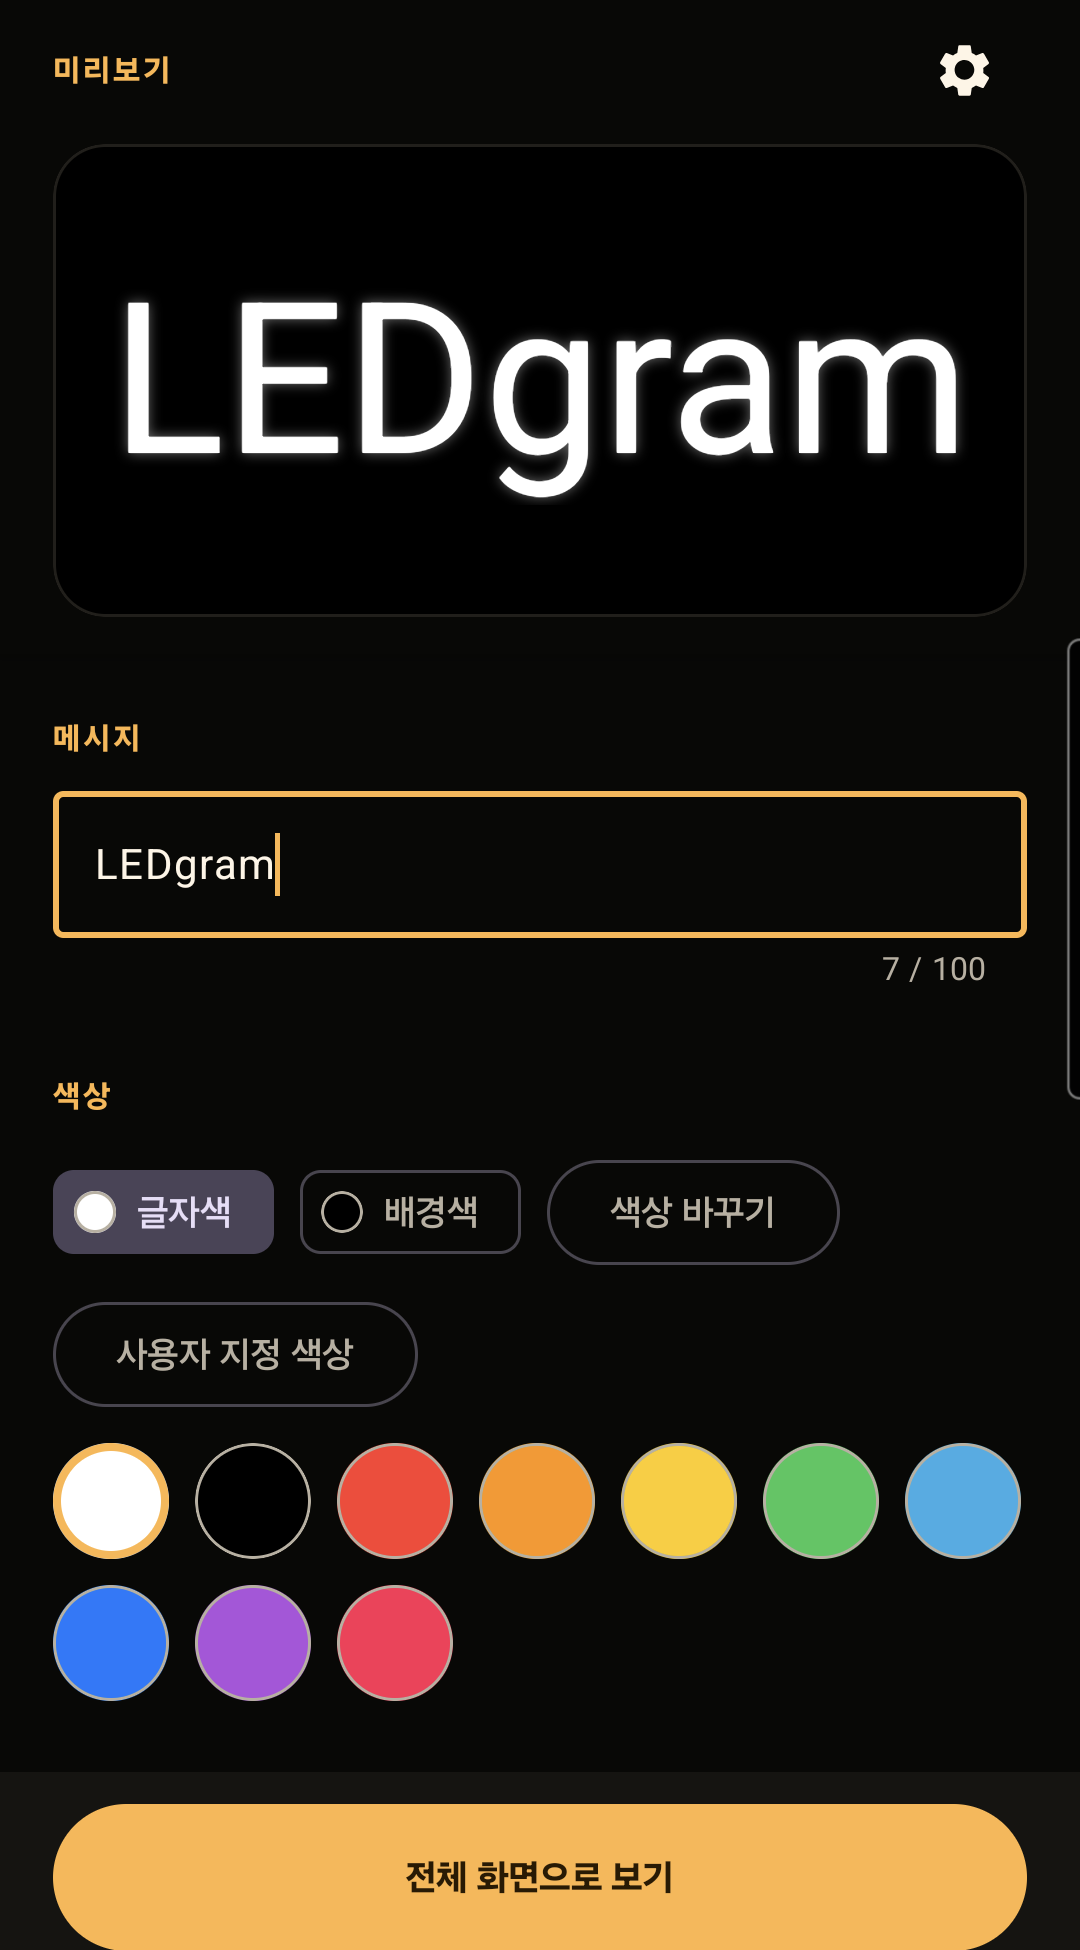
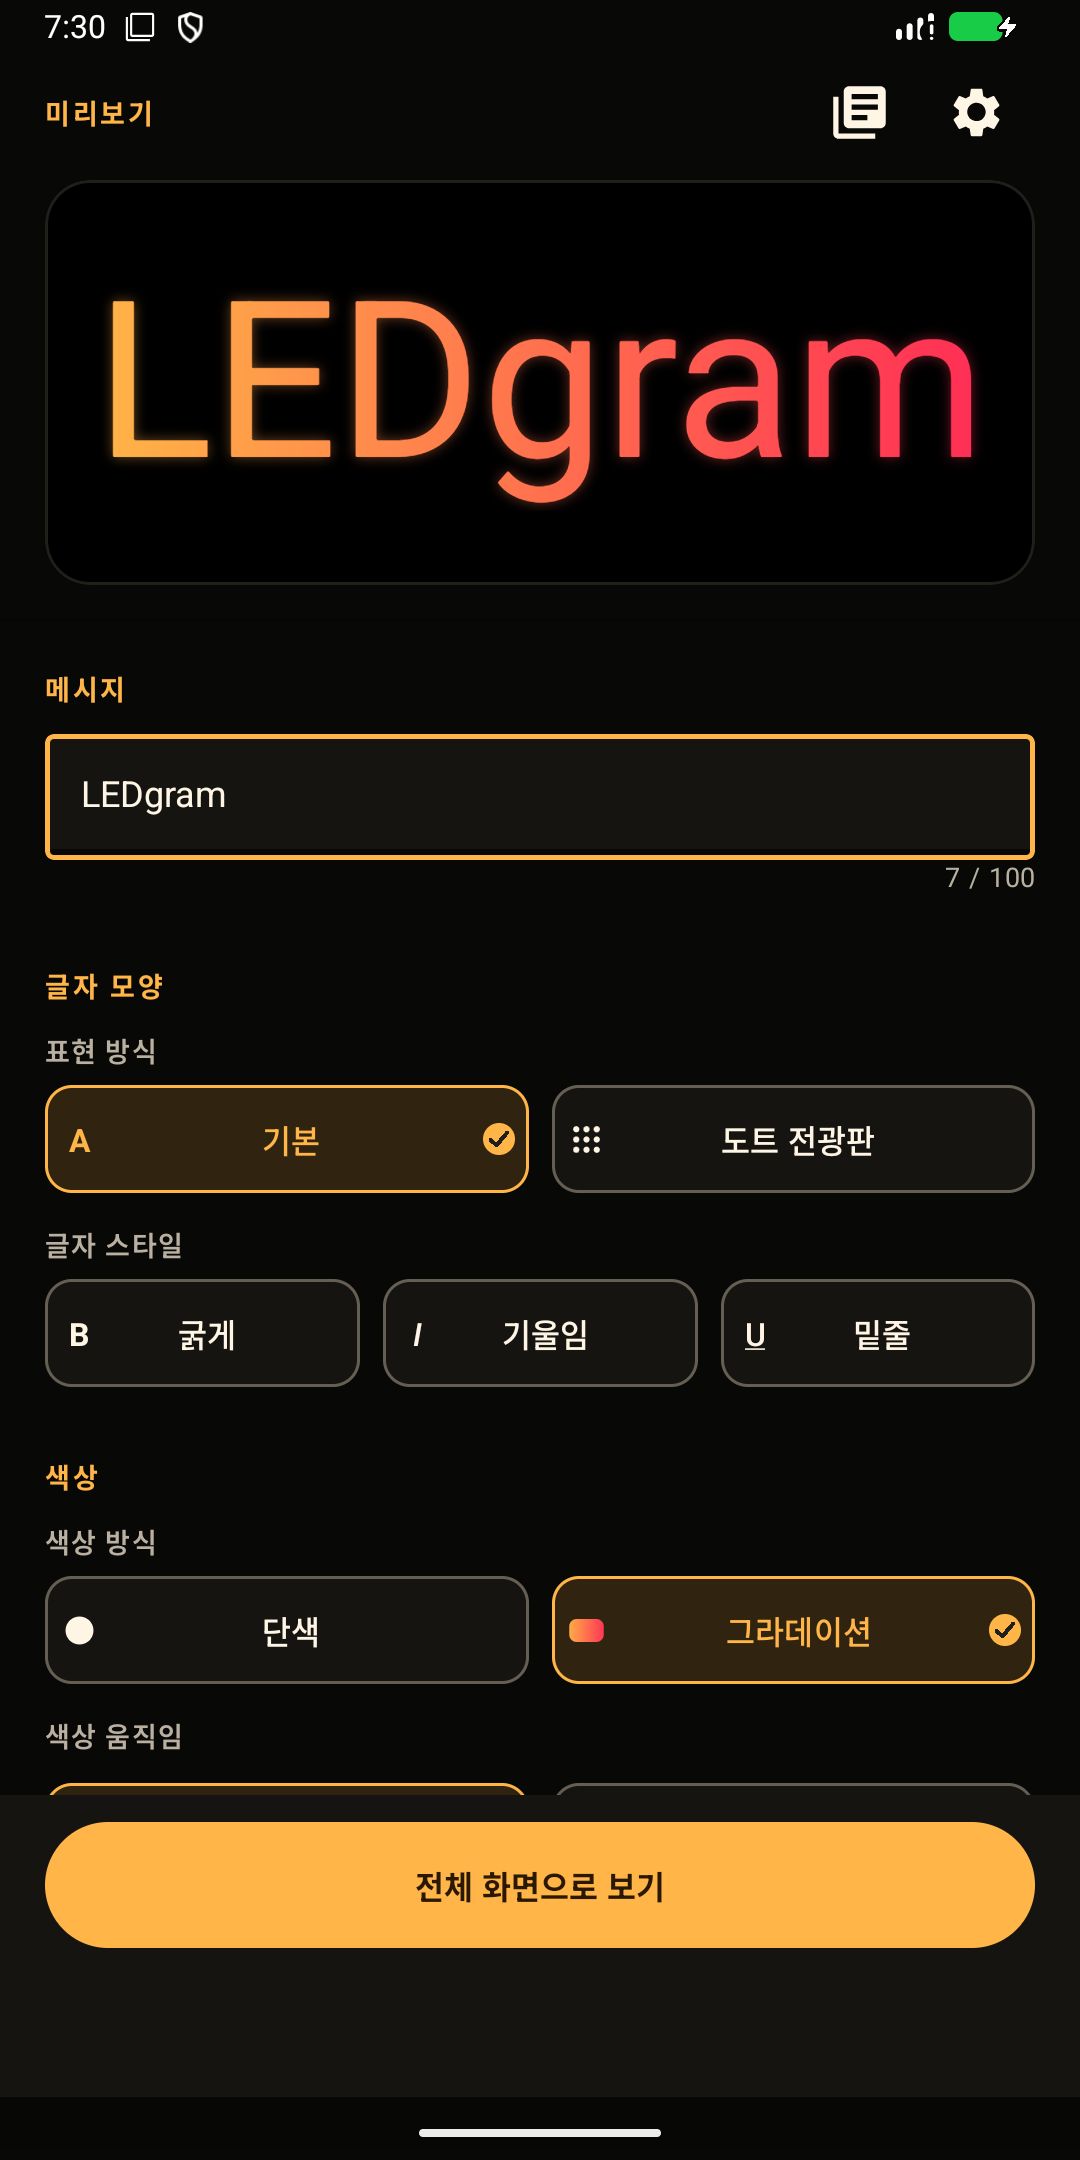
chore: sync public files from ledgram@51493d992a85

diff --git a/README.ko.md b/README.ko.md
@@ -6,7 +6,8 @@ LEDgram은 Android 스마트폰, 태블릿, 폴더블 기기를 밝고 자유롭
 
 ## 주요 기능
 
-- 단색 글자·배경 색상과 6가지 고정 및 4가지 애니메이션 글자 그라데이션, 굵게, 기울임, 밑줄 설정
+- 단색 글자·배경 색상과 6가지 고정 및 4가지 애니메이션 글자 그라데이션, 독립적인 그라데이션 속도
+- 굵게, 기울임, 밑줄 글자 스타일
 - Text + Glow 및 Dot Matrix 표현 방식
 - 고정 문구 또는 양방향 전광판 이동
 - Blink, Pulse, Fade 효과와 독립적인 이동·효과 속도 조절
@@ -15,7 +16,8 @@ LEDgram은 Android 스마트폰, 태블릿, 폴더블 기기를 밝고 자유롭
 - 앱을 다시 실행해도 유지되는 Editor 설정
 - 저장된 미리보기와 상세 정보, 생성, 불러오기, 이름 변경, 명시적 덮어쓰기, 삭제, 불러오기 실행 취소 및 편집 가능한 초기 Default를 지원하는 로컬 프리셋 라이브러리
 - 새로 설치하면 Brand Amber에서 Pink로 이어지는 고정 가로 그라데이션으로 시작하며, 기존에 저장된 Editor 설정과 프리셋은 변경되지 않음
-- Settings, 개인정보 처리방침, 법적 고지를 제공하는 한국어 및 영어 인터페이스
+- 시스템 기본값과 앱에서 직접 선택 가능한 14개 언어: 영어, 한국어, 일본어, 중국어 간체, 스페인어(스페인), 스페인어(라틴 아메리카), 포르투갈어(브라질), 프랑스어, 독일어, 이탈리아어, 인도네시아어, 베트남어, 태국어, 아랍어 및 아랍어 오른쪽에서 왼쪽으로 쓰기(RTL) 지원
+- 광고 없이 표시되는 전체 화면 Display와 계정·로그인 없이 바로 사용할 수 있는 구성
 - 필요한 지역에서 UMP 동의 및 개인정보 보호 옵션을 제공하는 Google Mobile Ads
 
 ## 스크린샷
@@ -24,13 +26,25 @@ LEDgram은 Android 스마트폰, 태블릿, 폴더블 기기를 밝고 자유롭
 
 <img src="docs/play-store/screenshots/ko/01-editor-overview.png" alt="실시간 미리보기와 꾸미기 설정이 표시된 LEDgram Editor" width="320">
 
+### 그라데이션 패턴
+
+<img src="docs/play-store/screenshots/ko/02-gradient-patterns.png" alt="LEDgram 그라데이션 패턴 선택 화면" width="320">
+
+### 프리셋
+
+<img src="docs/play-store/screenshots/ko/03-presets.png" alt="LEDgram 로컬 프리셋 라이브러리" width="320">
+
+### 이동 및 시각 효과
+
+<img src="docs/play-store/screenshots/ko/04-motion-effects.png" alt="LEDgram 이동 및 시각 효과 설정" width="320">
+
+### Text + Glow Display
+
+<img src="docs/play-store/screenshots/ko/05-text-glow.png" alt="LEDgram Text + Glow 전체 화면 Display" width="640">
+
 ### Dot Matrix Display
 
-<img src="docs/play-store/screenshots/ko/03-dot-matrix.png" alt="LEDgram Dot Matrix 전체 화면 Display" width="720">
-
-### 여러 줄 Display
-
-<img src="docs/play-store/screenshots/ko/06-multiline.png" alt="LEDgram 여러 줄 전체 화면 Display" width="720">
+<img src="docs/play-store/screenshots/ko/06-dot-matrix.png" alt="LEDgram Dot Matrix 전체 화면 Display" width="640">
 
 ## 기술 구성
 
@@ -42,7 +56,7 @@ LEDgram은 Android 스마트폰, 태블릿, 폴더블 기기를 밝고 자유롭
 
 ## 출시 상태
 
-- **게시된 버전:** 1.1.1 (23), Google Play에서 제공 중
+- **게시된 버전:** 1.2.0 (26), Google Play에서 제공 중
 - **설치:** [Google Play에서 LEDgram 설치하기](https://play.google.com/store/apps/details?id=com.gwolbisa.ledgram)
 
 ## 개발자

diff --git a/README.md b/README.md
@@ -6,7 +6,8 @@ LEDgram turns an Android phone, tablet, or foldable into a bright, customizable 
 
 ## Highlights
 
-- Solid text and background colors plus six static and four animated text gradient patterns, with bold, italic, and underline styles
+- Solid text and background colors plus six static and four animated text gradient patterns with independent gradient speed
+- Bold, italic, and underline text styles
 - Text + Glow and Dot Matrix display styles
 - Static text or marquee motion in either direction
 - Blink, Pulse, and Fade effects with independent motion and effect speeds
@@ -15,22 +16,35 @@ LEDgram turns an Android phone, tablet, or foldable into a bright, customizable 
 - Editor settings preserved between sessions
 - Local preset library with saved previews, details, create, load, rename, explicit overwrite, delete, load Undo, and an editable initial Default preset
 - New installations start with a static horizontal Brand Amber-to-Pink gradient; existing saved Editor configurations and presets remain unchanged
-- Korean and English interfaces with Settings, privacy policy, and legal notices
+- System Default plus 14 bundled selectable languages: English, Korean, Japanese, Simplified Chinese, Spanish (Spain), Spanish (Latin America), Portuguese (Brazil), French, German, Italian, Indonesian, Vietnamese, Thai, and Arabic with right-to-left layout support
+- Full-screen Display without ads and no account or login requirement
 - Google Mobile Ads with UMP consent and privacy options where applicable
 
 ## Screenshots
 
-### Editor and live preview
+### Editor overview
 
-<img src="docs/play-store/screenshots/ko/01-editor-overview.png" alt="LEDgram Editor with live preview and customization controls" width="320">
+<img src="docs/play-store/screenshots/en/01-editor-overview.png" alt="LEDgram Editor with live preview and customization controls" width="320">
+
+### Gradient patterns
+
+<img src="docs/play-store/screenshots/en/02-gradient-patterns.png" alt="LEDgram gradient pattern picker" width="320">
+
+### Presets
+
+<img src="docs/play-store/screenshots/en/03-presets.png" alt="LEDgram local preset library" width="320">
+
+### Motion and effects
+
+<img src="docs/play-store/screenshots/en/04-motion-effects.png" alt="LEDgram motion and visual effect controls" width="320">
+
+### Text + Glow display
+
+<img src="docs/play-store/screenshots/en/05-text-glow.png" alt="LEDgram Text + Glow full-screen display" width="640">
 
 ### Dot Matrix display
 
-<img src="docs/play-store/screenshots/ko/03-dot-matrix.png" alt="LEDgram Dot Matrix full-screen display" width="720">
-
-### Multiline display
-
-<img src="docs/play-store/screenshots/ko/06-multiline.png" alt="LEDgram multiline full-screen display" width="720">
+<img src="docs/play-store/screenshots/en/06-dot-matrix.png" alt="LEDgram Dot Matrix full-screen display" width="640">
 
 ## Technology
 
@@ -42,7 +56,7 @@ LEDgram turns an Android phone, tablet, or foldable into a bright, customizable 
 
 ## Release status
 
-- **Published version:** 1.1.1 (23), available on Google Play
+- **Published version:** 1.2.0 (26), available on Google Play
 - **Install:** [Get LEDgram on Google Play](https://play.google.com/store/apps/details?id=com.gwolbisa.ledgram)
 
 ## Developer
